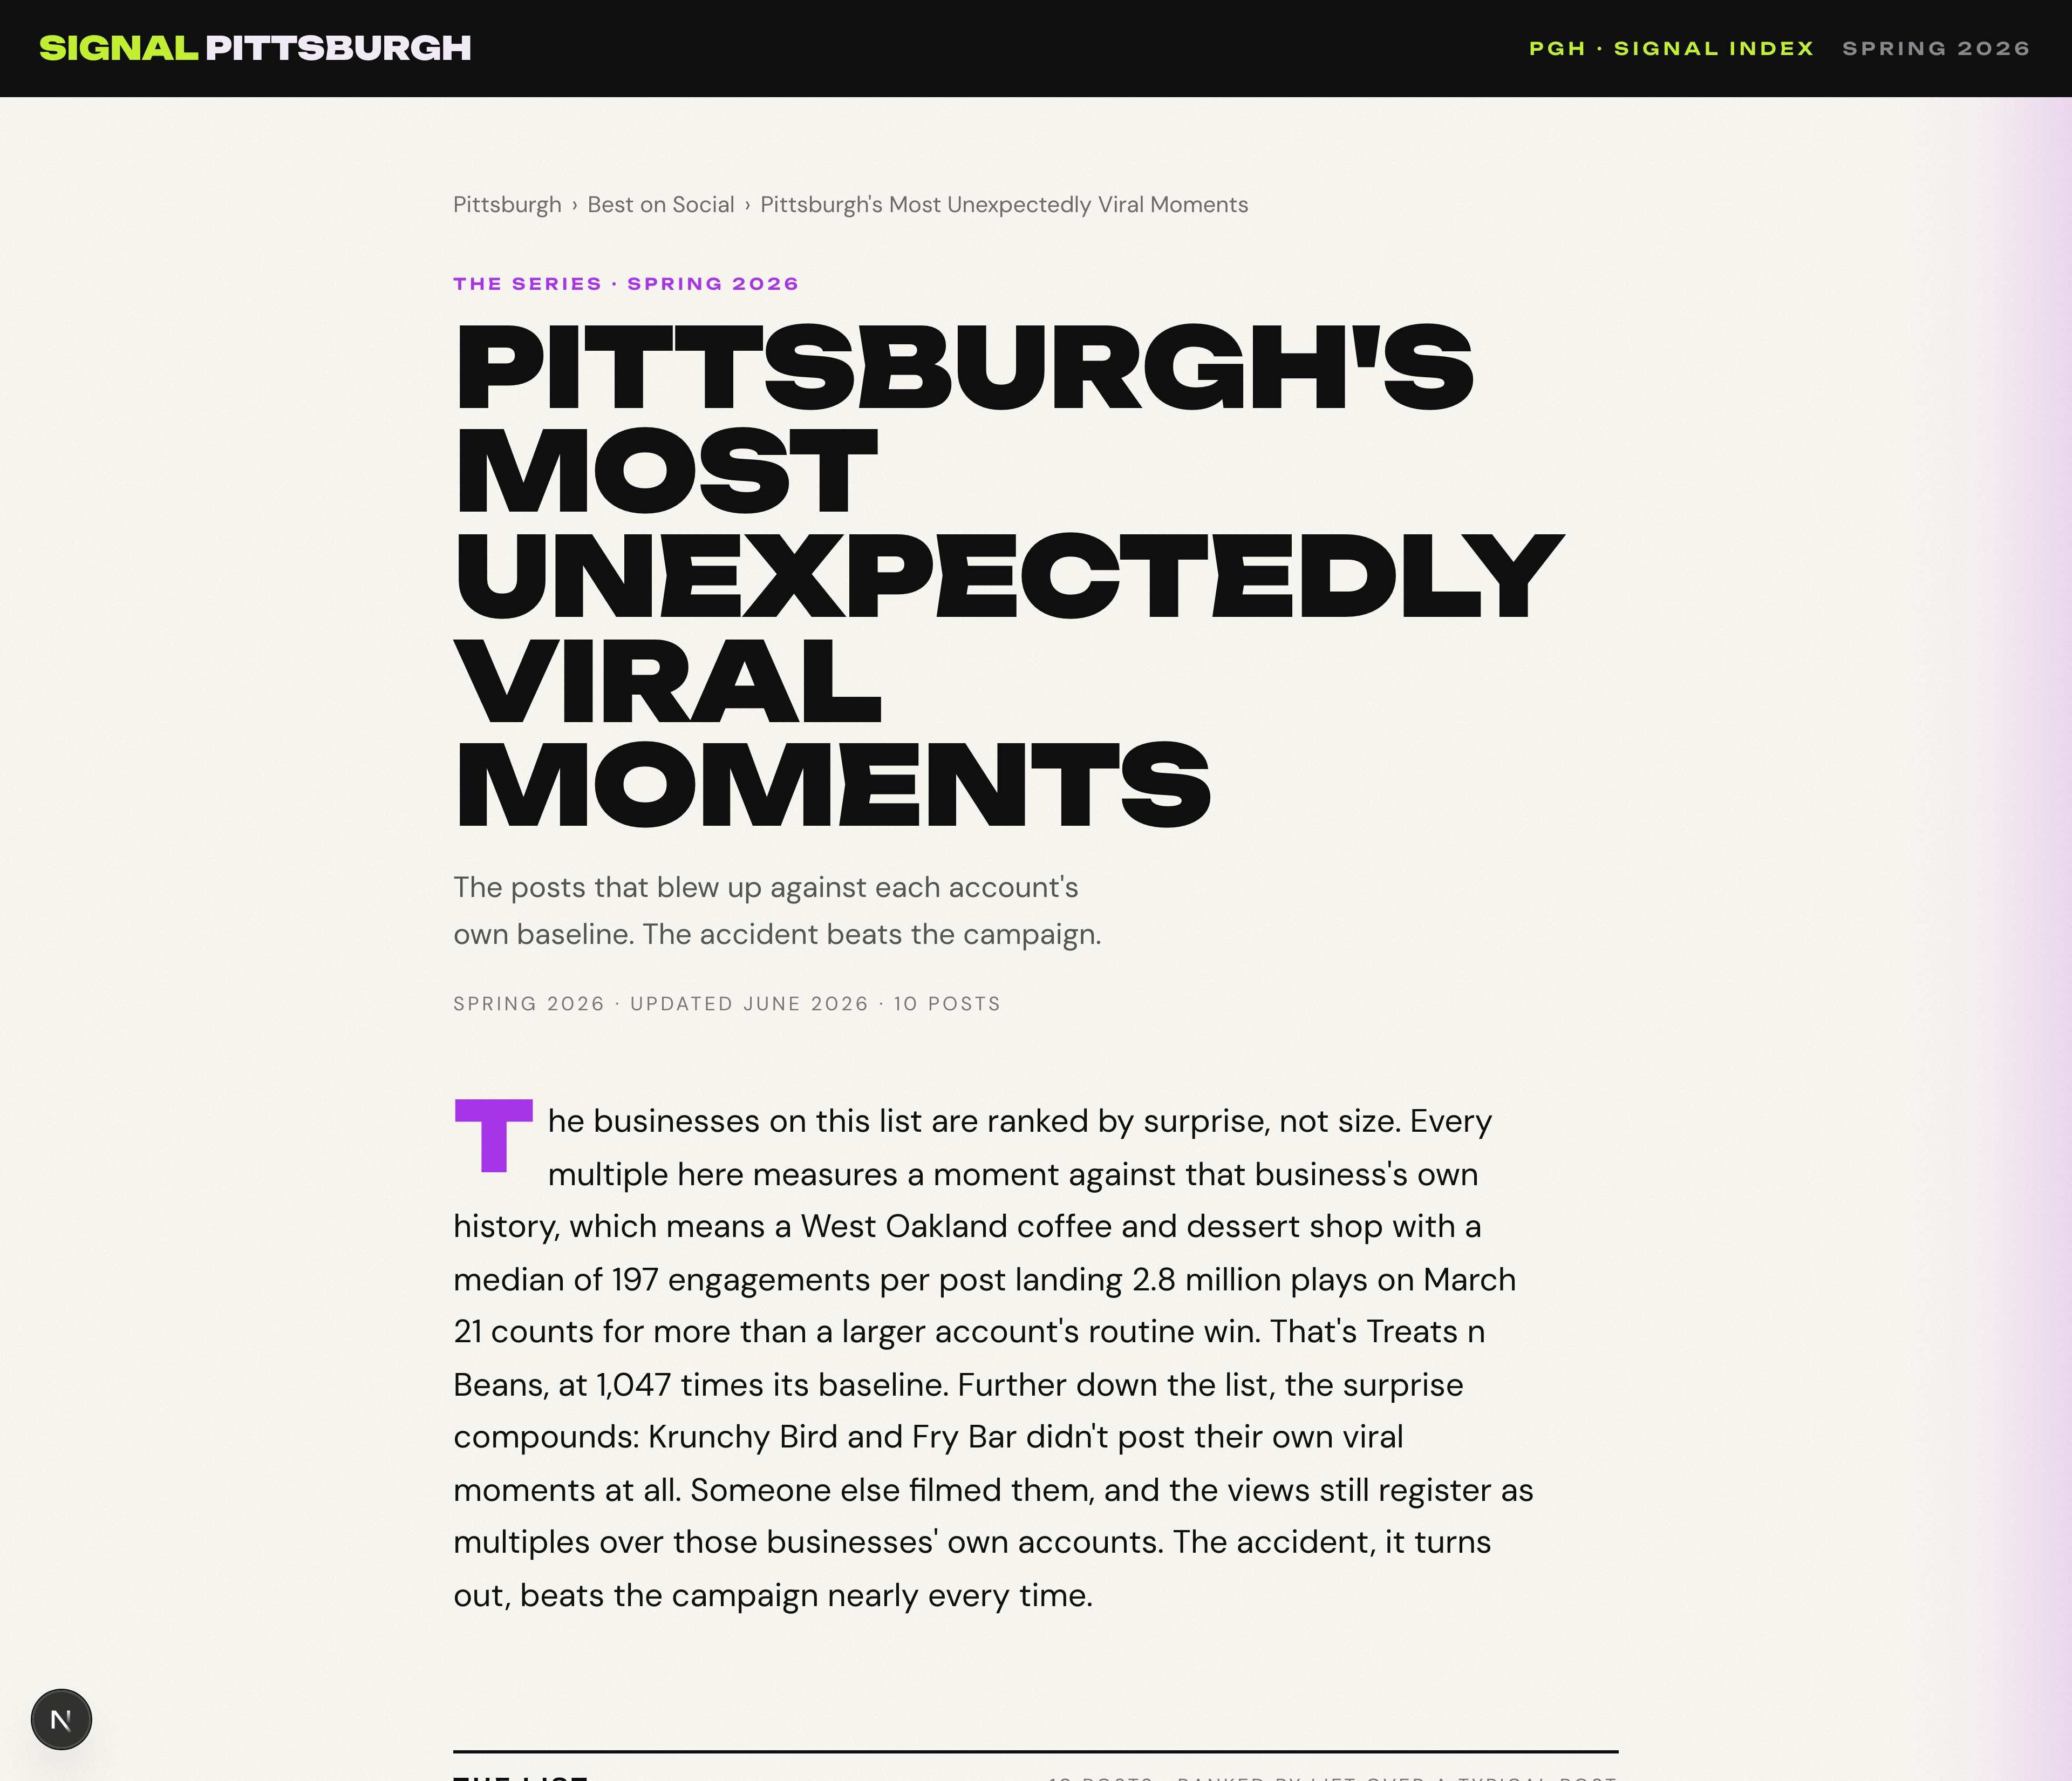
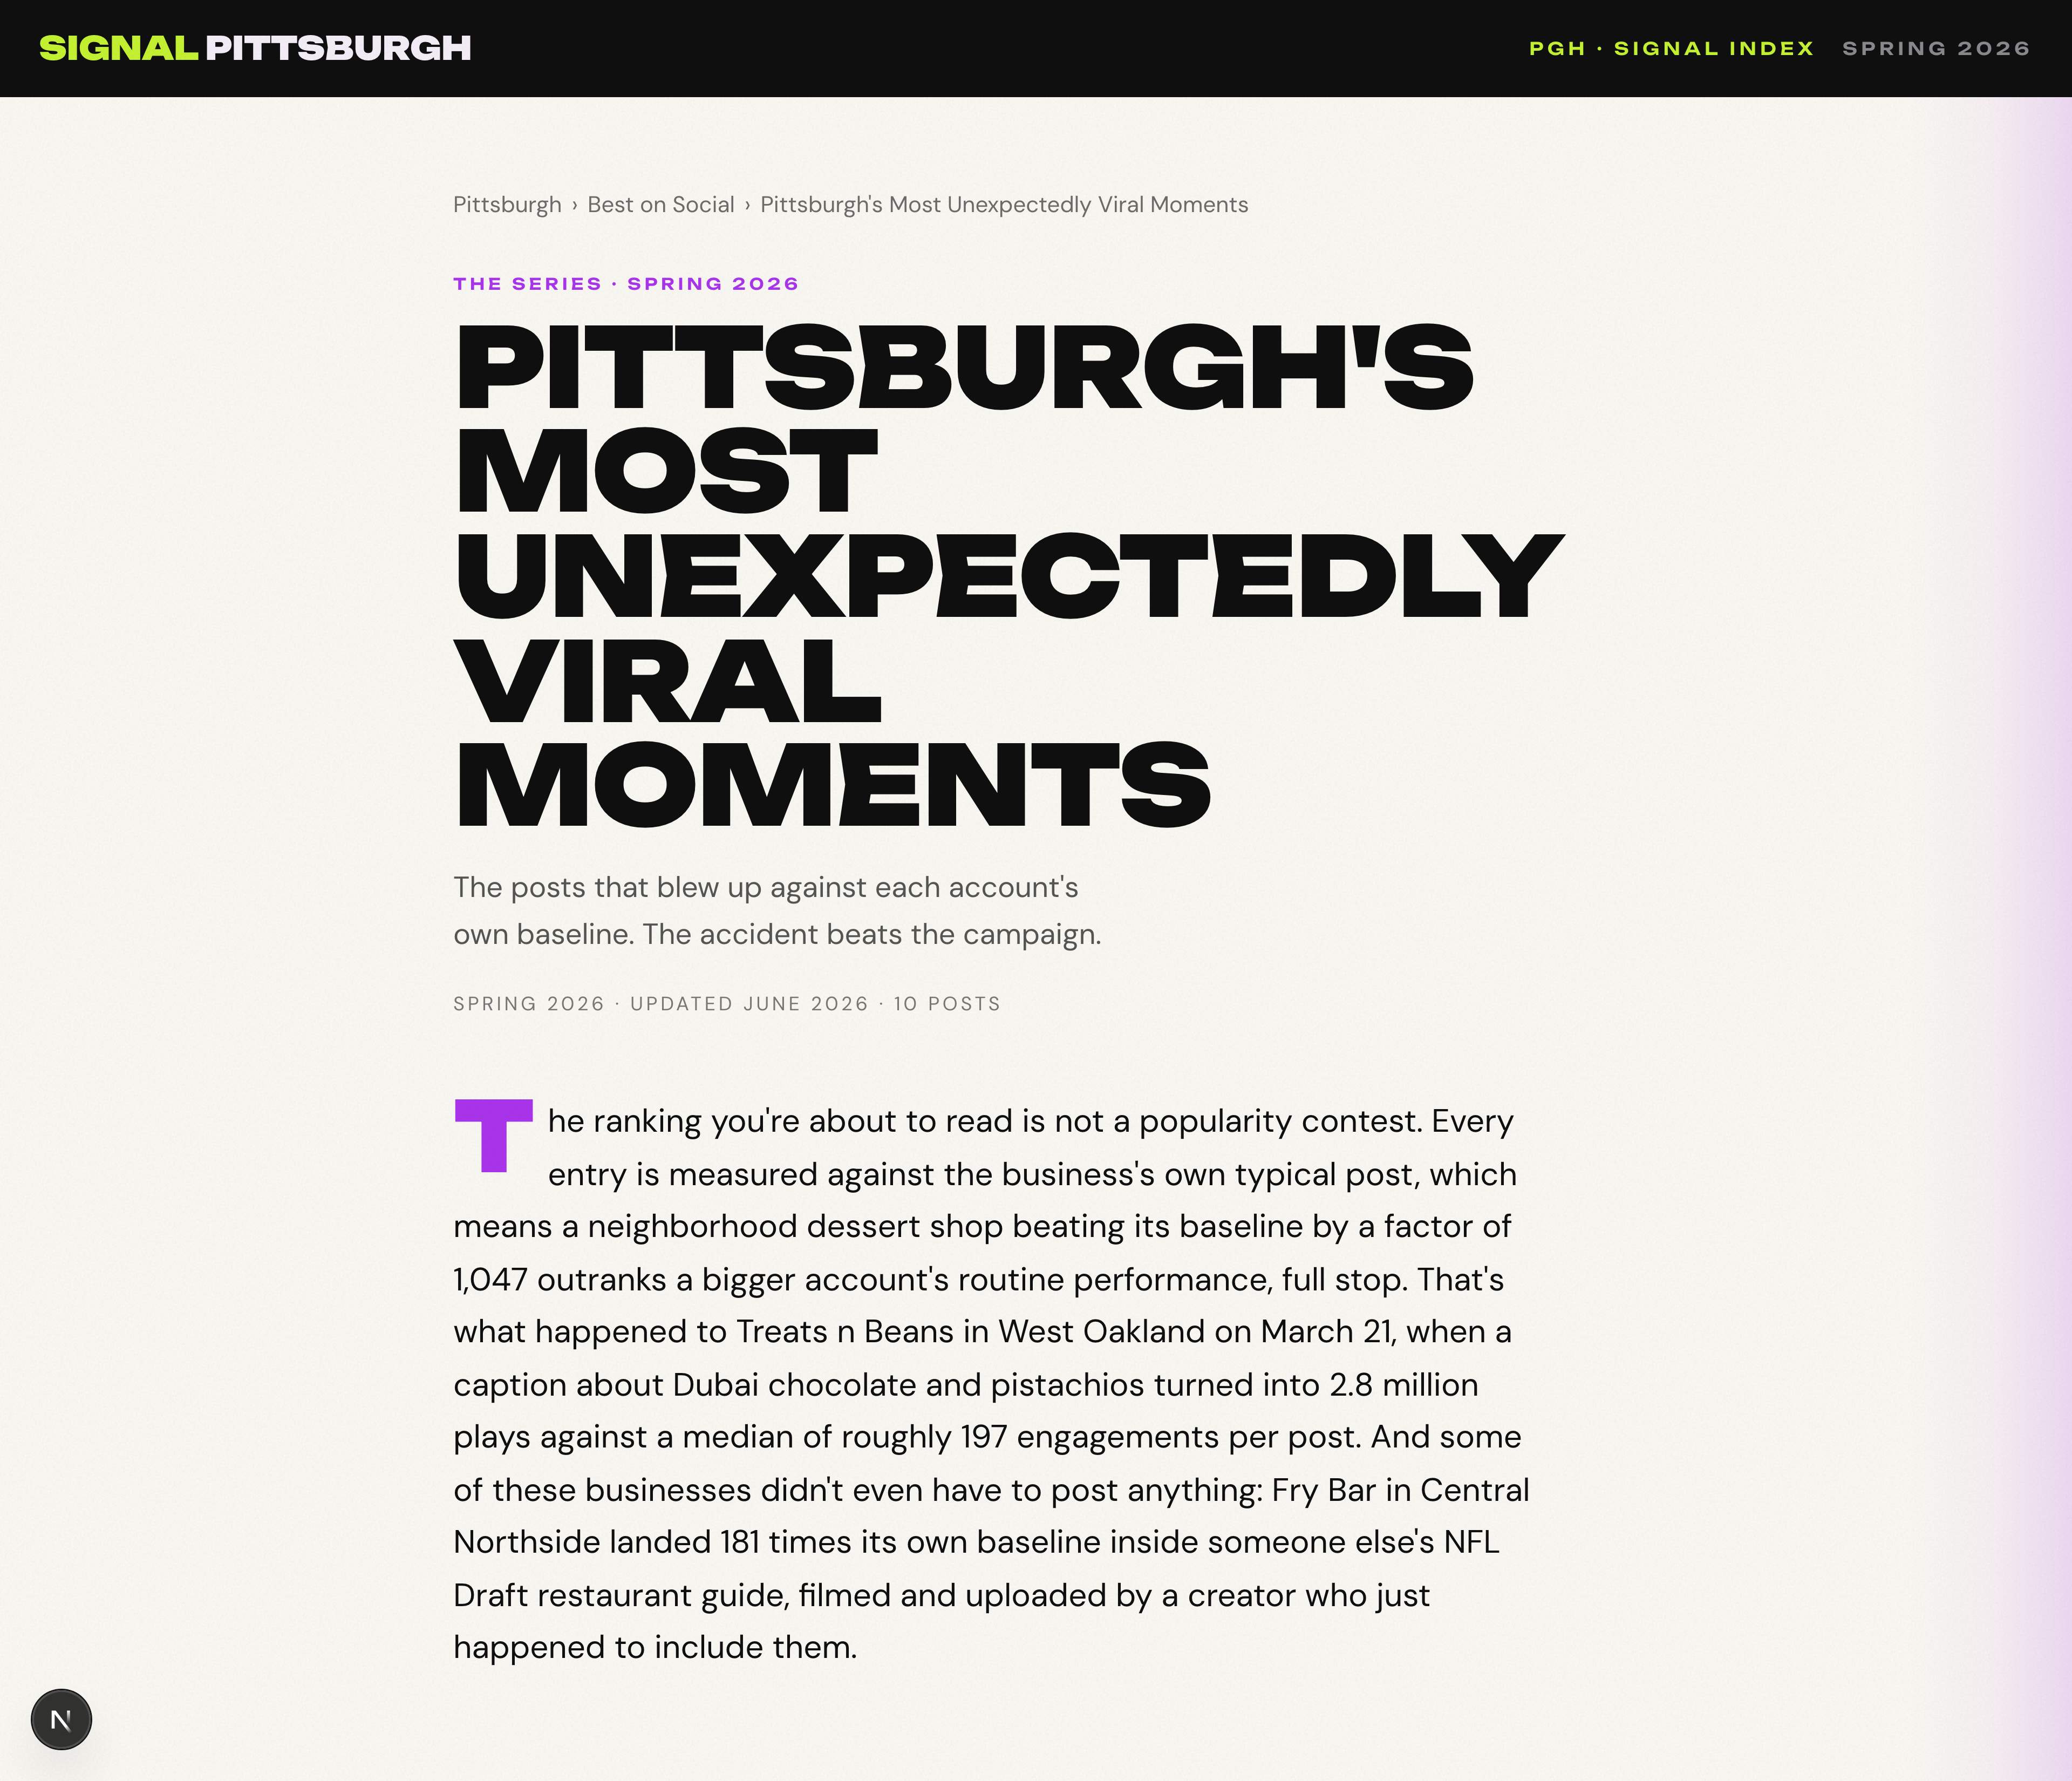
Apply review fixes: franchise blocker, gate determinism, copy grounding
Why: two parallel reviews surfaced one blocker and six should-fixes.
Cruisin' Tikis is a national franchise (40+ markets) so it violates
the small-business entity rule; excluded and the viral list
regenerated. The relevance gate flip-flopped on a borderline name
collision between runs, so human-adjudicated rejections are now
pinned by video id and the judge runs at temperature 0. Editorial
copy is now fully grounded: the creative intro's hypothetical
"half-million-follower chain" became a contrast the list itself
proves, blurbs lost their AI-rubric register, and the viral page now
defines what its multiple measures in the methodology box. Empty
lists render a deliberate reported-not-generated note instead of an
awkward "0 businesses" scaffold. Tooling footguns from review:
dry-run cost estimates use the measured rate, and malformed
--limit=/--top= values exit instead of silently meaning unlimited.

Changed region(s): [[0.2188, 0.6242, 0.75, 0.9364], [0.5, 0.9988, 0.7812, 1.0], [0.2188, 0.9988, 0.2812, 1.0]]

diff --git a/scripts/generate-viral-moments.ts b/scripts/generate-viral-moments.ts
@@ -68,7 +68,13 @@ import { mkdir, readFile, writeFile } from "node:fs/promises";
 import { join } from "node:path";
 import Anthropic from "@anthropic-ai/sdk";
 
-import { loadAllRichBusinesses } from "@/lib/query/business-query";
+// Type-only import is erased at runtime. The value import happens
+// dynamically inside main, AFTER dotenv has loaded .env.local, because
+// lib/db/client.ts (a transitive import of business-query) throws at
+// module-import time if DATABASE_URL is missing (static imports hoist
+// above this file's own loadEnv call). Same pattern as
+// scripts/scout-comment-defense.ts.
+import type { RichBusiness } from "@/lib/query/business-query";
 import { familyForCategory } from "@/lib/data/category-family";
 import { downloadThumbnail } from "@/lib/scrape/download-thumbnail";
 import { loadOwnPostsPool, type RawOwnPost } from "@/lib/lists/own-posts-pool";
@@ -94,11 +100,18 @@ const MIN_LIKES_FLOOR = 300;
 const MIN_PLAYS_FLOOR = 10_000;
 /** A creator's mention video must clear this many plays to qualify. */
 const MENTION_MIN_PLAYS = 25_000;
+/** Human-adjudicated mention rejections by TikTok video id. The model
+ *  gate is precision-first but not deterministic; cases a human has
+ *  ruled on get pinned here so a re-run cannot flip them. 2026-06-10:
+ *  7635345782836612383 is "The Breakfast Spot" (715 Penn-area
+ *  breakfast restaurant), a DIFFERENT business than "The Spot
+ *  Pittsburgh" (Dorseyville Rd); name collision. */
+const HUMAN_REJECTED_MENTIONS: ReadonlySet<string> = new Set([
+  "7635345782836612383",
+]);
 /** Qualifying posts must be recent (baseline uses all history). Mirrors
  *  the 90-day quarter window the most-creative generator uses. */
 const RECENCY_DAYS = 90;
-
-type RichBusiness = Awaited<ReturnType<typeof loadAllRichBusinesses>>[number];
 
 type MomentType = "own" | "mention";
 
@@ -191,6 +204,9 @@ type Article = {
   items: ViralItem[];
   /** Editorial label for the list-header meta on the article page. */
   rank_label?: string;
+  /** Article-specific sentence for the methodology box: defines what
+   *  the ranking multiple is measured against. */
+  method_note?: string;
   generated_at: string;
   model: string;
 };
@@ -421,6 +437,9 @@ Return ONLY a JSON array, no markdown fences, no commentary. One object per item
       const response = await client.messages.create({
         model: JUDGE_MODEL,
         max_tokens: 2048,
+        // Deterministic-ish verdicts: borderline cases flip-flopped
+        // between runs at the default temperature.
+        temperature: 0,
         messages: [{ role: "user", content: prompt }],
       });
       const block = response.content.find((b) => b.type === "text");
@@ -516,6 +535,9 @@ async function main() {
 
   await mkdir(OUT_DIR, { recursive: true });
 
+  // Dynamic import AFTER dotenv has populated DATABASE_URL; see the
+  // type-only import note at the top of this file.
+  const { loadAllRichBusinesses } = await import("@/lib/query/business-query");
   const all = await loadAllRichBusinesses({ fresh: true });
   const bySlug = new Map(all.map((rb) => [rb.artifact.business.slug, rb]));
 
@@ -576,7 +598,12 @@ async function main() {
       const ratio = engagement / baseline;
       const clearsFloor = likes >= MIN_LIKES_FLOOR || plays >= MIN_PLAYS_FLOOR;
       if (ratio < RATIO_THRESHOLD || !clearsFloor) continue;
-      if (!p.displayUrl) continue;
+      if (!p.displayUrl) {
+        console.log(
+          `[viral] ${slug}: own post ${p.shortCode} qualifies (${ratio.toFixed(1)}x baseline) but has no displayUrl, dropped (no thumbnail to self-host)`,
+        );
+        continue;
+      }
       candidates.push({
         momentType: "own",
         shortcode: p.shortCode!,
@@ -627,6 +654,12 @@ async function main() {
         const ratio = engagement / baseline;
         const videoId = v.id ?? extractTikTokVideoId(v.url);
         if (!videoId) continue; // dedupe key + embed id; URL didn't match either
+        if (HUMAN_REJECTED_MENTIONS.has(videoId)) {
+          console.log(
+            `[viral] mention rejected (human-adjudicated): ${slug} @${author} video ${videoId}`,
+          );
+          continue;
+        }
         candidates.push({
           momentType: "mention",
           shortcode: videoId,
@@ -852,6 +885,8 @@ async function main() {
     intro,
     items,
     rank_label: "ranked by lift over a typical post",
+    method_note:
+      "Every multiple on this list compares one moment's combined engagement, likes plus comments plus a thirtieth of its plays, against that account's own median post. Reach never ranks here; surprise does.",
     generated_at: new Date().toISOString(),
     model: `${INTRO_MODEL} (intro); ranking is deterministic (median-baseline outliers)`,
   };

diff --git a/app/best-on-social/[slug]/page.tsx b/app/best-on-social/[slug]/page.tsx
@@ -204,6 +204,10 @@ export default async function BestOnSocialArticlePage({ params }: PageProps) {
   // we keep the existing compact card layout.
   const businessMode = !isPostArticle(article);
   const items = article.items;
+  // Empty-state guard: a curated list that has not published yet (items
+  // is exactly []) renders the editorial header + intro, but no hero
+  // photo, no "0 businesses" meta, and no empty "The list" scaffold.
+  const isEmpty = items.length === 0;
 
   type EnrichedBusiness = {
     name: string;
@@ -262,7 +266,7 @@ export default async function BestOnSocialArticlePage({ params }: PageProps) {
   const metaRow = [
     "Spring 2026",
     updated ? `Updated ${updated}` : null,
-    `${items.length} ${itemNoun}`,
+    isEmpty ? null : `${items.length} ${itemNoun}`,
   ]
     .filter(Boolean)
     .join(" · ");
@@ -301,8 +305,9 @@ export default async function BestOnSocialArticlePage({ params }: PageProps) {
           </nav>
 
           {/* Hero (business articles get a real photo; post articles
-              keep a quiet text-only hero without a photo slot). */}
-          {businessMode ? (
+              and not-yet-published empty lists keep a quiet text-only
+              hero without a photo slot). */}
+          {businessMode && !isEmpty ? (
             <ListHero
               heroPhoto={heroPhoto}
               heroAlt={heroAlt}
@@ -353,8 +358,22 @@ export default async function BestOnSocialArticlePage({ params }: PageProps) {
             </div>
           </Reveal>
 
-          {/* The list. Business mode gets the new ListItem layout;
-              post mode keeps the compact card. */}
+          {/* Empty state: the list is still being reported. Replaces the
+              hero photo and "The list" scaffold; the page's existing
+              SubscribeFooter below stays as the subscribe CTA. */}
+          {isEmpty ? (
+            <section className="mt-14 md:mt-20">
+              <div className="border-2 border-brand-black rounded-sm p-6 md:p-8">
+                <h2 className="font-display text-lg md:text-xl font-black uppercase tracking-[-0.01em] text-brand-black">
+                  This list is being reported.
+                </h2>
+                <p className="mt-3 font-body text-sm md:text-base text-brand-black/85 leading-relaxed max-w-2xl">
+                  We only publish a defense we can point to. Subscribe to the
+                  index and you will see it the moment it holds up.
+                </p>
+              </div>
+            </section>
+          ) : (
           <section className="mt-14 md:mt-20">
             <div className="border-y-2 border-brand-black py-3 mb-10 md:mb-14 flex flex-wrap items-baseline justify-between gap-3">
               <h2 className="font-display text-xs font-semibold uppercase tracking-[0.2em] text-brand-black">
@@ -394,6 +413,7 @@ export default async function BestOnSocialArticlePage({ params }: PageProps) {
               </div>
             )}
           </section>
+          )}
 
           {/* How we picked this. Small methodology box. */}
           <aside className="mt-20 md:mt-24 border-t border-brand-black/15 pt-8">
@@ -407,6 +427,11 @@ export default async function BestOnSocialArticlePage({ params }: PageProps) {
                 creators in the city actually filmed this quarter. Editorial
                 picks, not announcements.
               </p>
+              {article.method_note ? (
+                <p className="mt-3 font-body text-sm md:text-base text-brand-black/85 leading-relaxed max-w-2xl">
+                  {article.method_note}
+                </p>
+              ) : null}
               <div className="mt-5 flex flex-wrap items-center gap-x-5 gap-y-2">
                 <Link
                   href="/how-we-rank"

diff --git a/scripts/scrape-tiktok-mentions.ts b/scripts/scrape-tiktok-mentions.ts
@@ -12,7 +12,9 @@
  * Candidates come from the full DB business catalog (lib/query/business-query,
  * ~2,580 businesses), not the 30 legacy content/businesses/*.json artifacts.
  *
- * Cost: about $0.005 per query x ~2,580 businesses = ~$13 for a full pass.
+ * Cost: measured at ~$0.22 per business (2026-06-10 pilot), so a full
+ * catalog pass (~2,580 businesses) runs ~$560. Use --pool or --limit to
+ * keep spend bounded.
  * Runtime: 6 actor runs in flight at once (worker pool), each run capped
  * at a 6 minute poll so one hung run can't stall the batch.
  *
@@ -50,7 +52,9 @@ const SOCIAL_DIR = join(process.cwd(), "content", "social");
 const RAW_DIR = join(process.cwd(), "content", "raw", "tiktok");
 
 const CONCURRENCY = 6;
-const COST_PER_QUERY = 0.005;
+// Measured ~$0.22/business in the 2026-06-10 pilot (was a stale $0.005
+// guess). Drives the dry-run cost estimate only.
+const COST_PER_QUERY = 0.22;
 // Politeness pause per worker between successive runs.
 const WORKER_PAUSE_MS = 1500;
 // Wall-clock estimate assumption for dry-run output only.
@@ -477,7 +481,13 @@ function parseLimit(args: string[]): number | null {
   const eq = args.find((a) => a.startsWith("--limit="));
   if (eq) {
     const n = Number(eq.slice("--limit=".length));
-    return Number.isFinite(n) && n > 0 ? Math.floor(n) : null;
+    // Invalid equals-form must fail loudly: returning null here means
+    // UNLIMITED downstream, the opposite of what the caller asked for.
+    if (!Number.isFinite(n) || n <= 0) {
+      console.error("[tt] --limit requires a positive number, e.g. --limit 50");
+      process.exit(1);
+    }
+    return Math.floor(n);
   }
   const i = args.indexOf("--limit");
   if (i === -1) return null;
@@ -550,7 +560,7 @@ async function main() {
     // lists (content/raw/own-posts via the shared loader, which already
     // drops franchises/institutions and collapses shared IG handles).
     // Budget guard: full-catalog scraping measured at ~$0.22/business
-    // (2026-06-10 pilot), 40x the stale $0.005 estimate in the header.
+    // (2026-06-10 pilot); see COST_PER_QUERY.
     const { loadOwnPostsPool } = await import("@/lib/lists/own-posts-pool");
     const poolSlugs = new Set((await loadOwnPostsPool()).map((r) => r.slug));
     candidates = candidates.filter((c) => poolSlugs.has(c.slug));
@@ -577,7 +587,7 @@ async function main() {
       `\n[dry-run] candidates=${candidates.length} to-scrape=${toScrape.length} skip-cached=${skippedCached} new-social-files=${toScrape.filter((c) => !c.hasSocialFile).length}`,
     );
     console.log(
-      `[dry-run] estimated cost: ~$${(toScrape.length * COST_PER_QUERY).toFixed(2)} (${toScrape.length} queries x $${COST_PER_QUERY.toFixed(3)}/query)`,
+      `[dry-run] estimated cost: ~$${(toScrape.length * COST_PER_QUERY).toFixed(2)} (${toScrape.length} queries x $${COST_PER_QUERY.toFixed(2)}/query, measured 2026-06-10 rate)`,
     );
     console.log(
       `[dry-run] estimated wall-clock: ~${formatDuration(estSeconds)} at ${CONCURRENCY} workers (assumes ~${AVG_RUN_SECONDS}s per actor run + ${WORKER_PAUSE_MS / 1000}s pause)`,

diff --git a/scripts/scrape-business-own-posts.ts b/scripts/scrape-business-own-posts.ts
@@ -147,7 +147,13 @@ function parseTopN(args: string[]): number | null {
   const eq = args.find((a) => a.startsWith("--top="));
   if (eq) {
     const n = Number(eq.slice("--top=".length));
-    return Number.isFinite(n) && n > 0 ? Math.floor(n) : null;
+    // Invalid equals-form must fail loudly: returning null here means
+    // UNLIMITED downstream, the opposite of what the caller asked for.
+    if (!Number.isFinite(n) || n <= 0) {
+      console.error("[own-posts] --top requires a positive number, e.g. --top 200");
+      process.exit(1);
+    }
+    return Math.floor(n);
   }
   const i = args.indexOf("--top");
   if (i === -1) return null;

diff --git a/lib/data/load-list.ts b/lib/data/load-list.ts
@@ -84,6 +84,10 @@ export type ListArticle = {
    *  "ranked by originality, not reach". Preferred over the query-derived
    *  label and the "ranked by plays" fallback when present. */
   rank_label?: string;
+  /** Optional article-specific sentence appended in the "How we picked
+   *  this" methodology box, e.g. defining what a ranking multiple is
+   *  measured against. */
+  method_note?: string;
   query?: {
     filter?: Record<string, unknown>;
     ranking: string;

diff --git a/scripts/generate-most-creative-posts.ts b/scripts/generate-most-creative-posts.ts
@@ -166,7 +166,7 @@ JUDGE ON:
 3. format_fit (1-10): does the format (image / sidecar / video / reel) serve the idea, or is it generic? 1 = mismatched, 10 = the format IS the joke.
 4. surprise (1-10): would a stranger scrolling stop and lean in? 1 = forgettable, 10 = saved/sent to a friend.
 
-Then write 'why' as ONE short sentence (under 25 words) explaining what makes this post score the way it does. NO em dashes. Specific.
+Then write 'why' as ONE short sentence (under 25 words) explaining what makes this post score the way it does. NO em dashes. Specific. Plain magazine voice, like a sharp editor talking: do NOT use marketing register words such as "content", "product story", "authenticity", "earned", "scroll-stopping", or "engagement".
 
 Return ONLY valid JSON, this exact shape:
 {"visual_concept": <int>, "caption_craft": <int>, "format_fit": <int>, "surprise": <int>, "why": "<one sentence>"}`;

diff --git a/lib/lists/own-posts-pool.ts b/lib/lists/own-posts-pool.ts
@@ -51,6 +51,7 @@ export const EXCLUDED_HANDLES: ReadonlySet<string> = new Set([
   "primantibros", // chain
   "kaminsciencecenter", // institution
   "slyfoxbeer", // regional brand account, content not Pittsburgh-specific
+  "cruisintikispgh", // franchise
 ]);
 
 /** One scraped IG post, exactly as the Apify own-posts scraper wrote it.